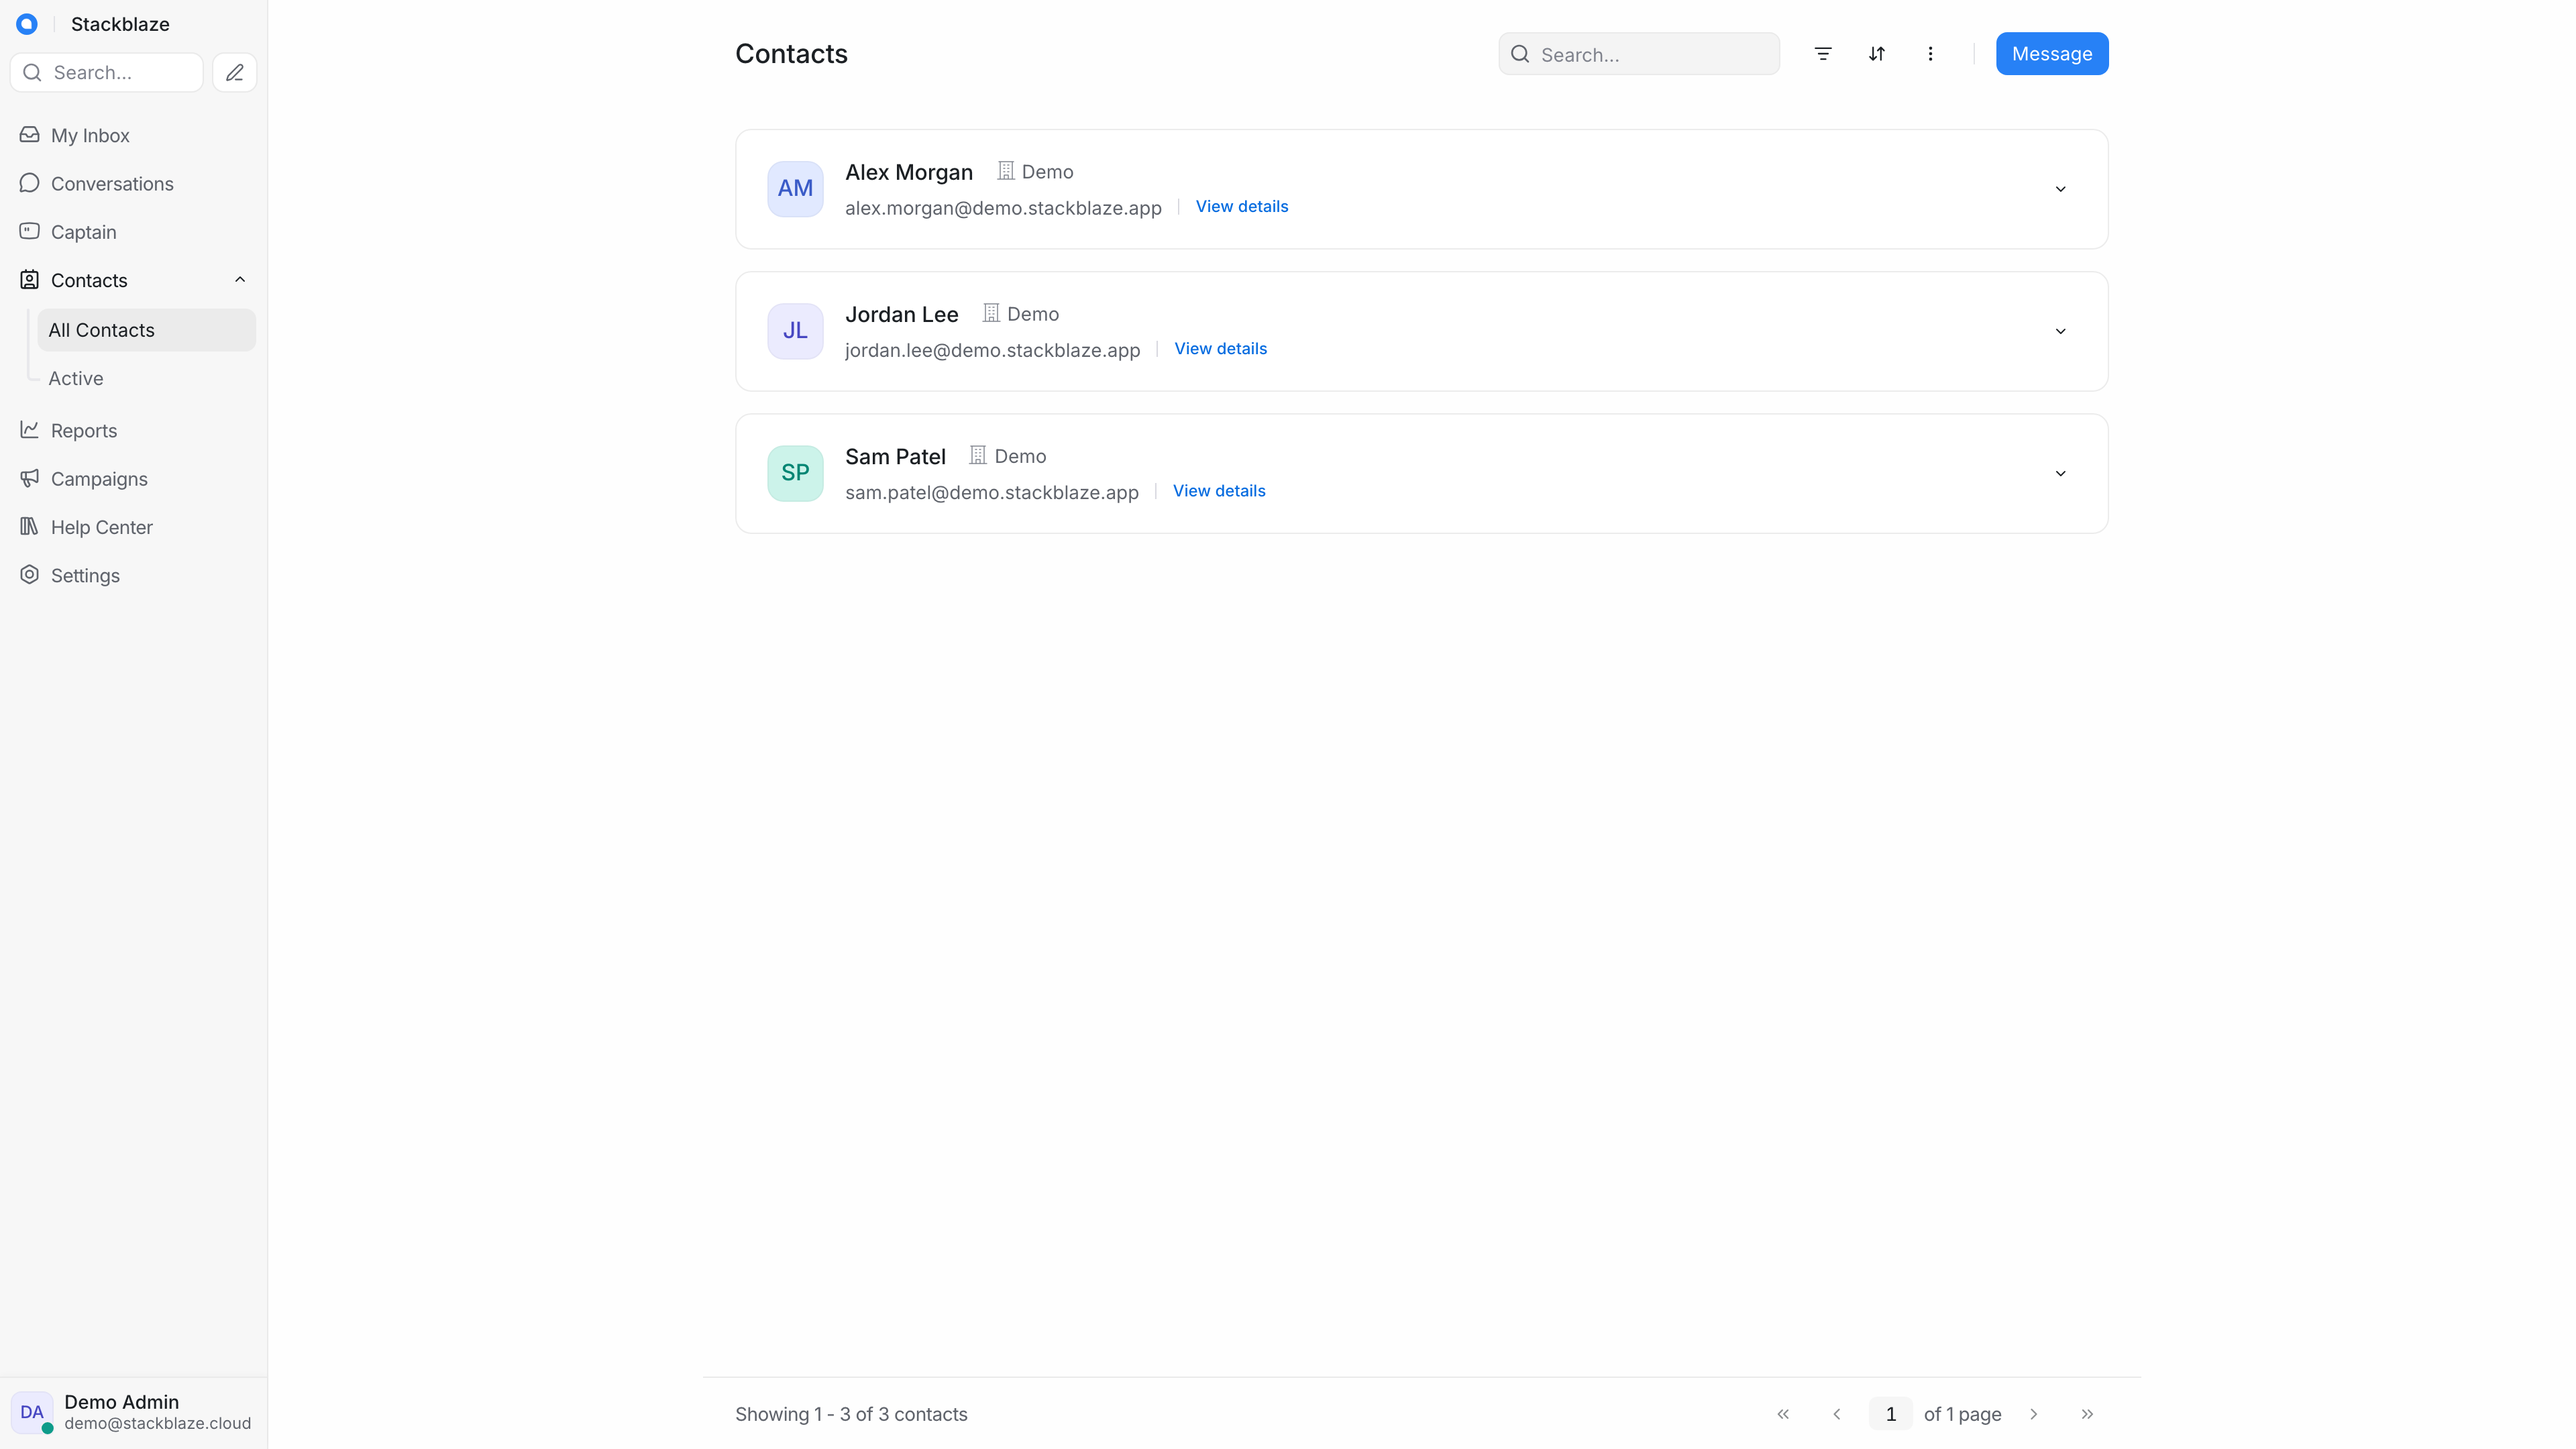
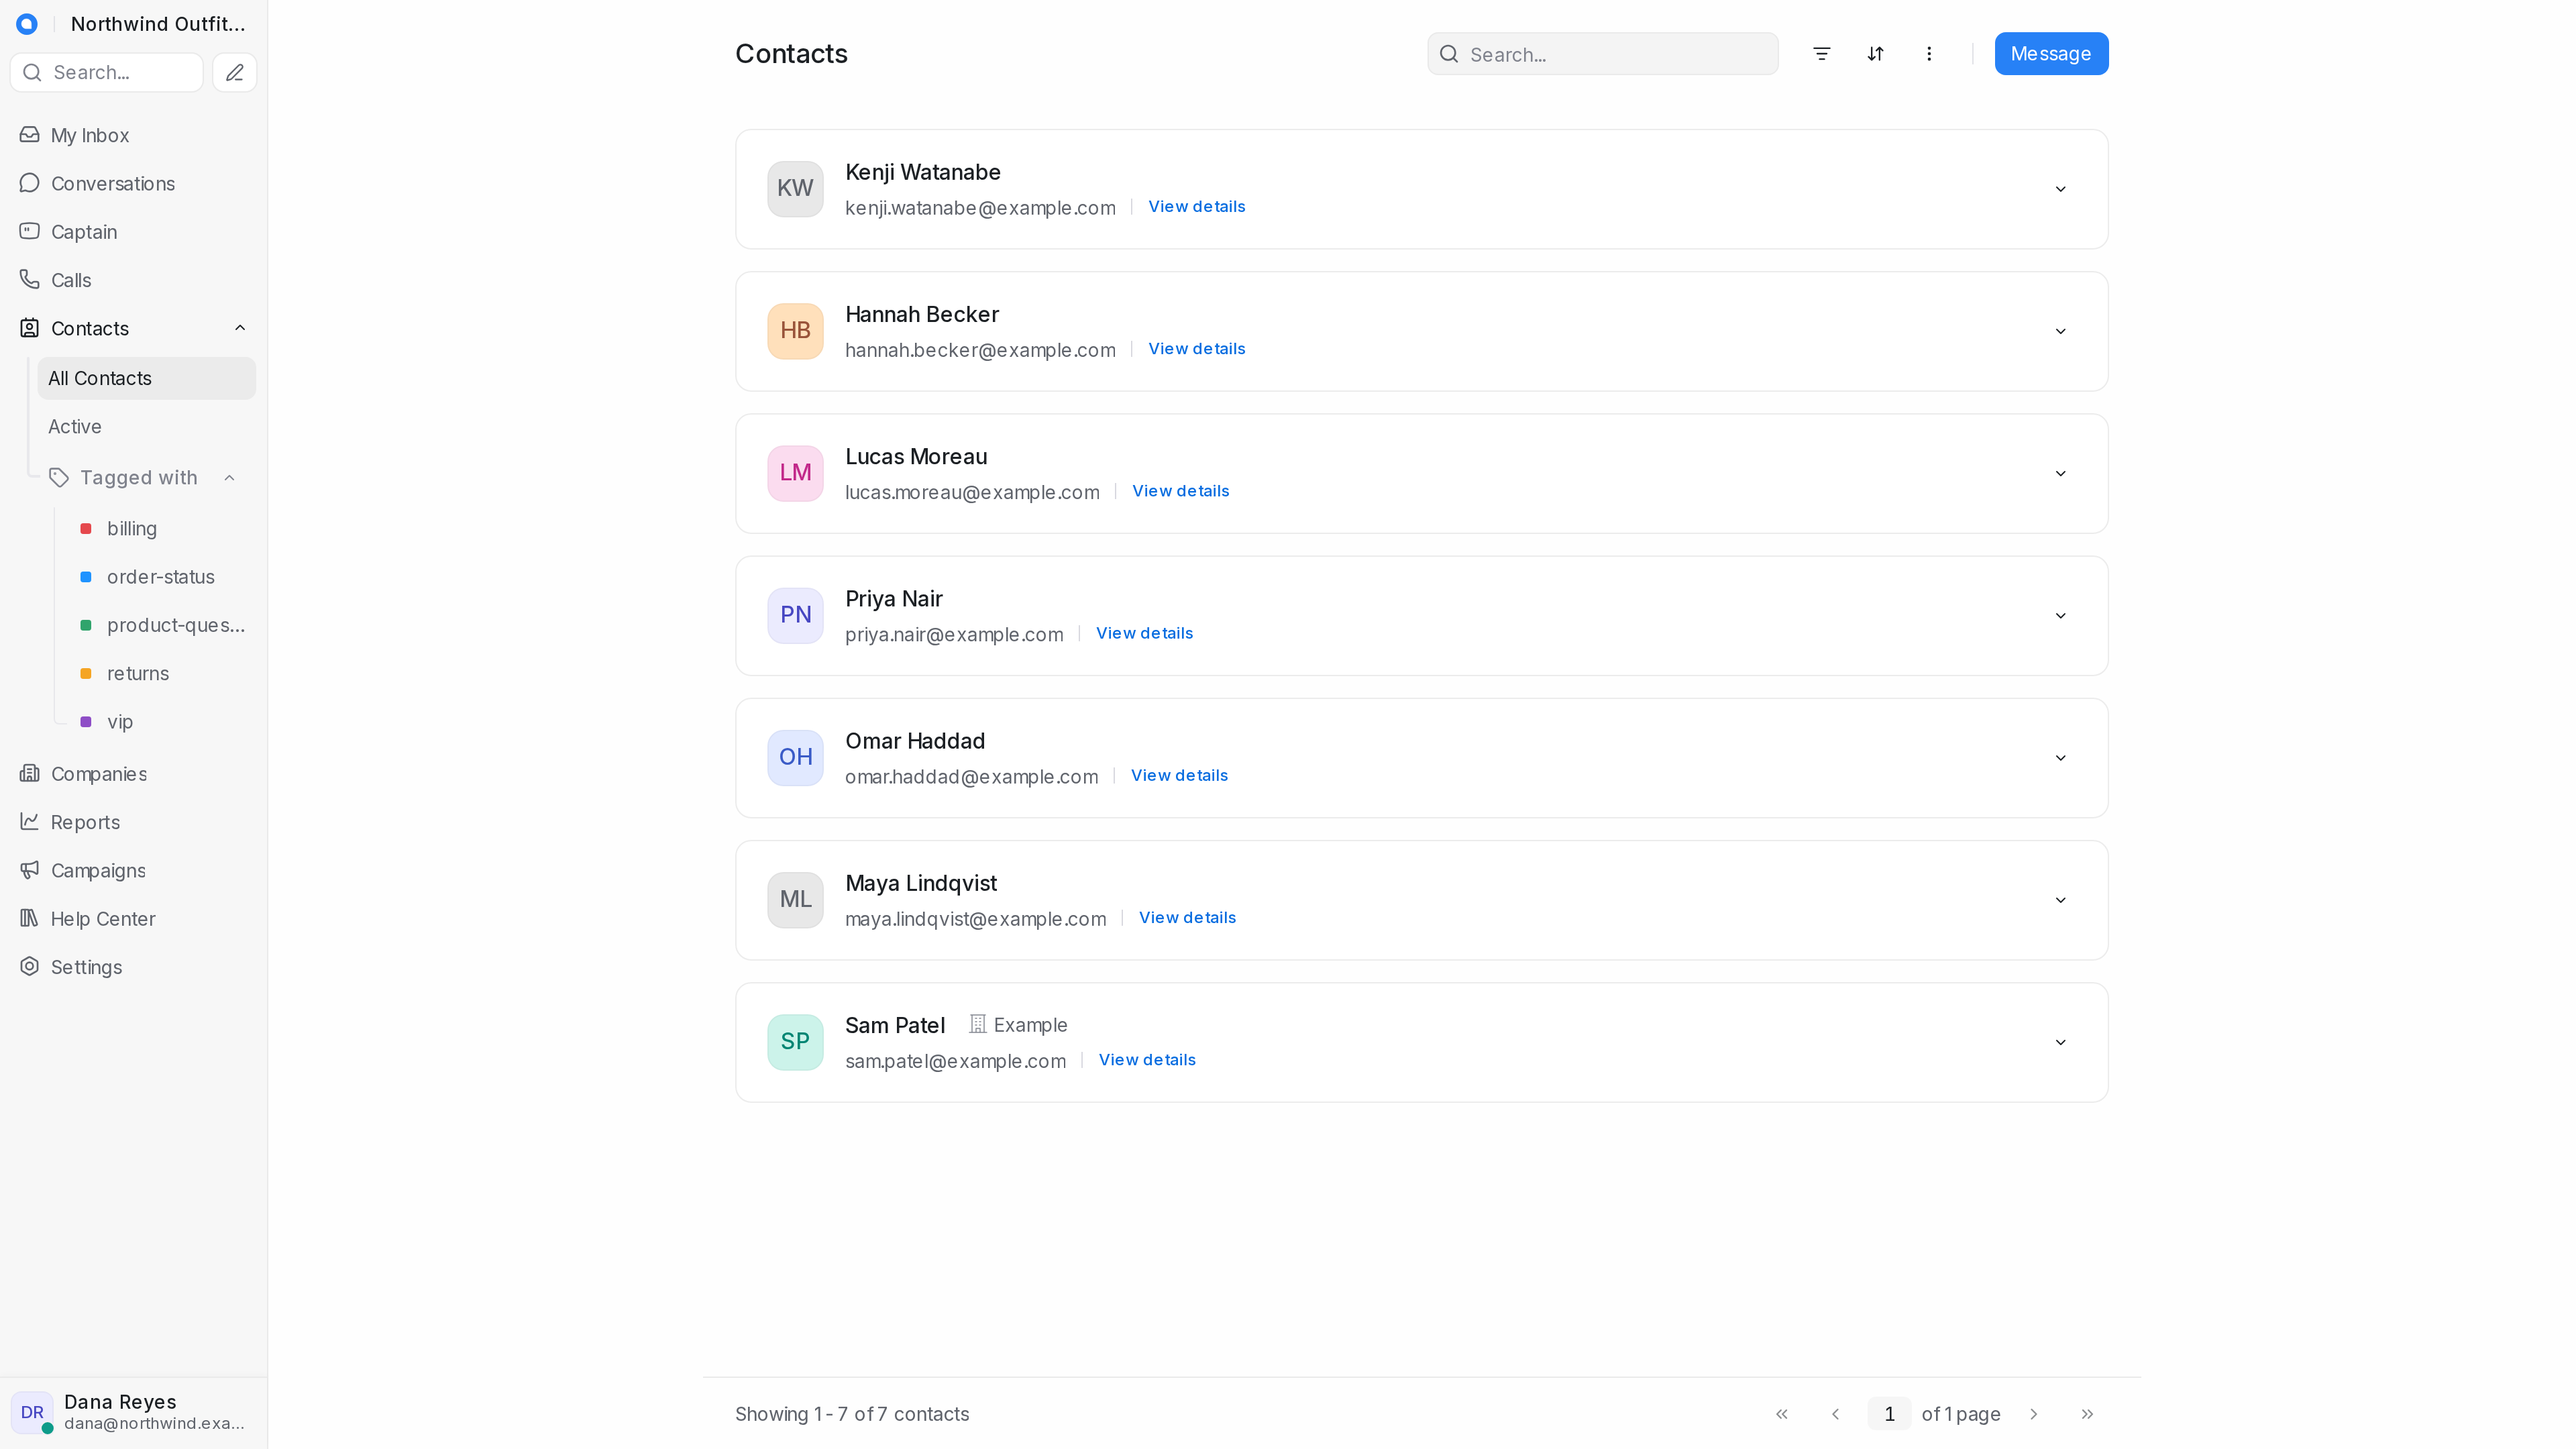
Chatwoot: fix the template and make it active on staging (#155)
Chatwoot was marked unsupported in dfe534e (communal DB could not create
pgvector). Each app has its own CNPG cluster now, so the extension works,
but a deploy of the old template on dev was still broken in ways health
checks did not show:

- No Sidekiq worker: every background job (live updates, mail, channel
  delivery) queued in Valkey and never ran. The template now runs the
  same image as a worker Deployment (worker.replicaCount 1, PROC_TYPE
  branch in the start command), sharing the storage volume.
- No email: add the platform Email add-on, mapped onto Chatwoot's
  SMTP_ADDRESS / SMTP_USERNAME / MAILER_SENDER_EMAIL. Default
  MAILER_INBOUND_EMAIL_DOMAIN to the sender domain so agent replies
  emailed to visitors do not fail with "Channel email domain not
  present".
- First-boot race: db:seed (which arms the setup page in Valkey) failed
  when Valkey was not up yet, and later boots skip it, leaving no way to
  create the first admin. Wait for Valkey, and re-arm setup while no user
  exists.
- SECRET_KEY_BASE was 64 zeros; generate it (HEX:128) and the three
  ACTIVE_RECORD_ENCRYPTION_* keys (ALNUM:32). Generated DB passwords.
- Pin v4.19.1 (was latest), /health check, telemetry off, extensions
  created at bootstrap instead of the pg_stat_statements sed hack.

index.json: status active, fixed description mojibake, real GitHub
stats, Smtp add-on, new screenshots. Capture spec and seed script added.

Agent: claude-code (service-vm-03)

diff --git a/scripts/seed-chatwoot-demo.py b/scripts/seed-chatwoot-demo.py
@@ -1,0 +1,108 @@
+#!/usr/bin/env python3
+"""Seed a Chatwoot account with realistic support data.  seed.py <url>
+
+Customer messages go through the real web-widget API (incoming); agent replies,
+labels, notes and statuses through the account API. Admin creds from CW_EMAIL /
+CW_PASSWORD. Names are invented.
+"""
+import os, re, sys, time
+import requests
+
+U = sys.argv[1].rstrip('/')
+UA = {'User-Agent': 'Mozilla/5.0 (X11; Linux x86_64) AppleWebKit/537.36 (KHTML, like Gecko) Chrome/130.0 Safari/537.36'}
+me = requests.post(U + '/auth/sign_in', json={'email': os.environ['CW_EMAIL'], 'password': os.environ['CW_PASSWORD']}).json()['data']
+H = {'api_access_token': me['access_token']}
+A = '%s/api/v1/accounts/%s' % (U, me['account_id'])
+
+
+def j(r):
+    if not r.ok:
+        raise SystemExit('%s %s: %s' % (r.request.method, r.url, r.text[:300]))
+    return r.json()
+
+
+# account basics: finish the post-signup "account details" step the way its form does
+r = requests.patch(A + '/onboarding', headers=H, json={'onboarding_step': 'account_details', 'name': 'Northwind Outfitters',
+    'locale': 'en', 'timezone': 'America/New_York', 'industry': 'E-commerce', 'company_size': '11-50', 'user_role': 'Support',
+    'website': 'northwind.example', 'referral_source': 'Other'})
+print('onboarding step', r.status_code)
+j(requests.patch(A, headers=H, json={'name': 'Northwind Outfitters'}))
+for t, c, d in [('order-status', '#1F93FF', 'Where is my order'), ('returns', '#F5A524', 'Returns and exchanges'),
+                ('billing', '#E5484D', 'Invoices and payments'), ('vip', '#8E4EC6', 'Priority customers'),
+                ('product-question', '#30A46C', 'Sizing and product details')]:
+    requests.post(A + '/labels', headers=H, json={'title': t, 'color': c, 'description': d, 'show_on_sidebar': True})
+for code, text in [('shipping', 'Orders ship within 1 business day. You will get a tracking link by email as soon as it leaves our warehouse.'),
+                   ('returns', 'You can return unworn items within 30 days. Start a return at northwind.example/returns and we will email a prepaid label.'),
+                   ('thanks', 'Thanks for reaching out! Is there anything else I can help with today?')]:
+    requests.post(A + '/canned_responses', headers=H, json={'short_code': code, 'content': text})
+teams = j(requests.get(A + '/teams', headers=H))
+team = next((t for t in teams if t['name'] == 'support'), None) or j(requests.post(A + '/teams', headers=H, json={'name': 'Support', 'description': 'Customer support'}))
+
+inboxes = j(requests.get(A + '/inboxes', headers=H))['payload']
+web = next((i for i in inboxes if i['channel_type'] == 'Channel::WebWidget'), None)
+if not web:
+    web = j(requests.post(A + '/inboxes', headers=H, json={'name': 'Website', 'greeting_enabled': True,
+        'greeting_message': 'Hi! How can we help?', 'channel': {'type': 'web_widget', 'website_url': 'https://northwind.example',
+        'widget_color': '#1f93ff', 'welcome_title': 'Hi there!', 'welcome_tagline': 'We usually reply in a few minutes.'}}))
+    requests.post(A + '/inbox_members', headers=H, json={'inbox_id': web['id'], 'user_ids': [me['id']]})
+TOKEN = web['website_token']
+api_inbox = next((i for i in inboxes if i['channel_type'] == 'Channel::Api'), None) or j(requests.post(A + '/inboxes', headers=H, json={
+    'name': 'Mobile app', 'channel': {'type': 'api', 'webhook_url': ''}}))
+requests.post(A + '/inbox_members', headers=H, json={'inbox_id': api_inbox['id'], 'user_ids': [me['id']]})
+
+# (customer, email, city, [(who, text)], labels, status, note)
+CONVS = [
+    ('Maya Lindqvist', 'maya.lindqvist@example.com', 'Stockholm',
+     [('c', 'Hi! I ordered the Ridge 40L backpack on Monday (order #4821) and it still says processing. Any update?'),
+      ('a', 'Hi Maya, thanks for your patience! I checked #4821: it was packed this morning and ships today. You will get the tracking link by email within a few hours.'),
+      ('c', 'Perfect, thank you so much!')], ['order-status'], 'resolved', None),
+    ('Omar Haddad', 'omar.haddad@example.com', 'Toronto',
+     [('c', 'The trail runners I got are half a size too small. Can I swap them for a 10.5?'),
+      ('a', 'Of course! Exchanges are free within 30 days. I have started one for you: a prepaid label is on its way to omar.haddad@example.com.'),
+      ('c', 'Great. Do I need to include the original box?')], ['returns'], 'open', 'Customer is a repeat buyer, 6 orders this year.'),
+    ('Priya Nair', 'priya.nair@example.com', 'Bengaluru',
+     [('c', 'Is the Summit down jacket warm enough for -15°C? I am trying to decide between it and the parka.'),
+      ('a', 'Good question! The Summit is rated to about -10°C on its own. For -15°C with wind, the Glacier parka is the better pick.')], ['product-question'], 'open', None),
+    ('Lucas Moreau', 'lucas.moreau@example.com', 'Lyon',
+     [('c', 'I was charged twice for order #4790. Can you refund the duplicate?')], ['billing', 'vip'], 'open', 'Verify the second charge in Stripe before refunding.'),
+    ('Hannah Becker', 'hannah.becker@example.com', 'Munich',
+     [('c', 'Do you ship to Austria? I could not find it in the checkout list.'),
+      ('a', 'We do! Austria was missing from the list this morning; it is back now. Shipping takes 3 to 5 business days.')], ['order-status'], 'pending', None),
+    ('Kenji Watanabe', 'kenji.watanabe@example.com', 'Osaka',
+     [('c', 'Hello, can I still change the color on my order? I picked green but want navy.')], [], 'open', None),
+]
+
+def widget_conv(name, email, city, first):
+    s = requests.Session(); s.headers.update(UA)
+    h = s.get(U + '/widget', params={'website_token': TOKEN}).text
+    tok = re.search(r"window\.authToken = '([^']+)'", h).group(1)
+    r = j(s.post(U + '/api/v1/widget/conversations', params={'website_token': TOKEN}, headers={'X-Auth-Token': tok},
+                 json={'contact': {'name': name, 'email': email}, 'message': {'content': first, 'referer_url': 'https://northwind.example/orders'}}))
+    return s, tok, r['id']
+
+
+import os as _os
+if _os.environ.get('ONLY_ONBOARD'): raise SystemExit(0)
+for name, email, city, msgs, labels, status, note in CONVS:
+    s, tok, conv_display = widget_conv(name, email, city, msgs[0][1])
+    time.sleep(0.5)
+    convs = j(requests.get(A + '/conversations', headers=H, params={'status': 'all', 'q': ''}))['data']['payload']
+    conv = next(c for c in convs if c['meta']['sender']['email'] == email)
+    cid = conv['id']
+    requests.patch('%s/contacts/%s' % (A, conv['meta']['sender']['id']), headers=H,
+                   json={'additional_attributes': {'city': city, 'company_name': ''}})
+    for who, text in msgs[1:]:
+        time.sleep(0.6)
+        if who == 'a':
+            j(requests.post('%s/conversations/%s/messages' % (A, cid), headers=H, json={'content': text, 'message_type': 'outgoing'}))
+        else:
+            j(s.post(U + '/api/v1/widget/messages', params={'website_token': TOKEN}, headers={'X-Auth-Token': tok}, json={'message': {'content': text}}))
+    if note:
+        j(requests.post('%s/conversations/%s/messages' % (A, cid), headers=H, json={'content': note, 'private': True}))
+    if labels:
+        j(requests.post('%s/conversations/%s/labels' % (A, cid), headers=H, json={'labels': labels}))
+    requests.post('%s/conversations/%s/assignments' % (A, cid), headers=H, json={'assignee_id': me['id']})
+    if status != 'open':
+        j(requests.post('%s/conversations/%s/toggle_status' % (A, cid), headers=H, json={'status': status}))
+    print('seeded', name, cid)
+print('done')
